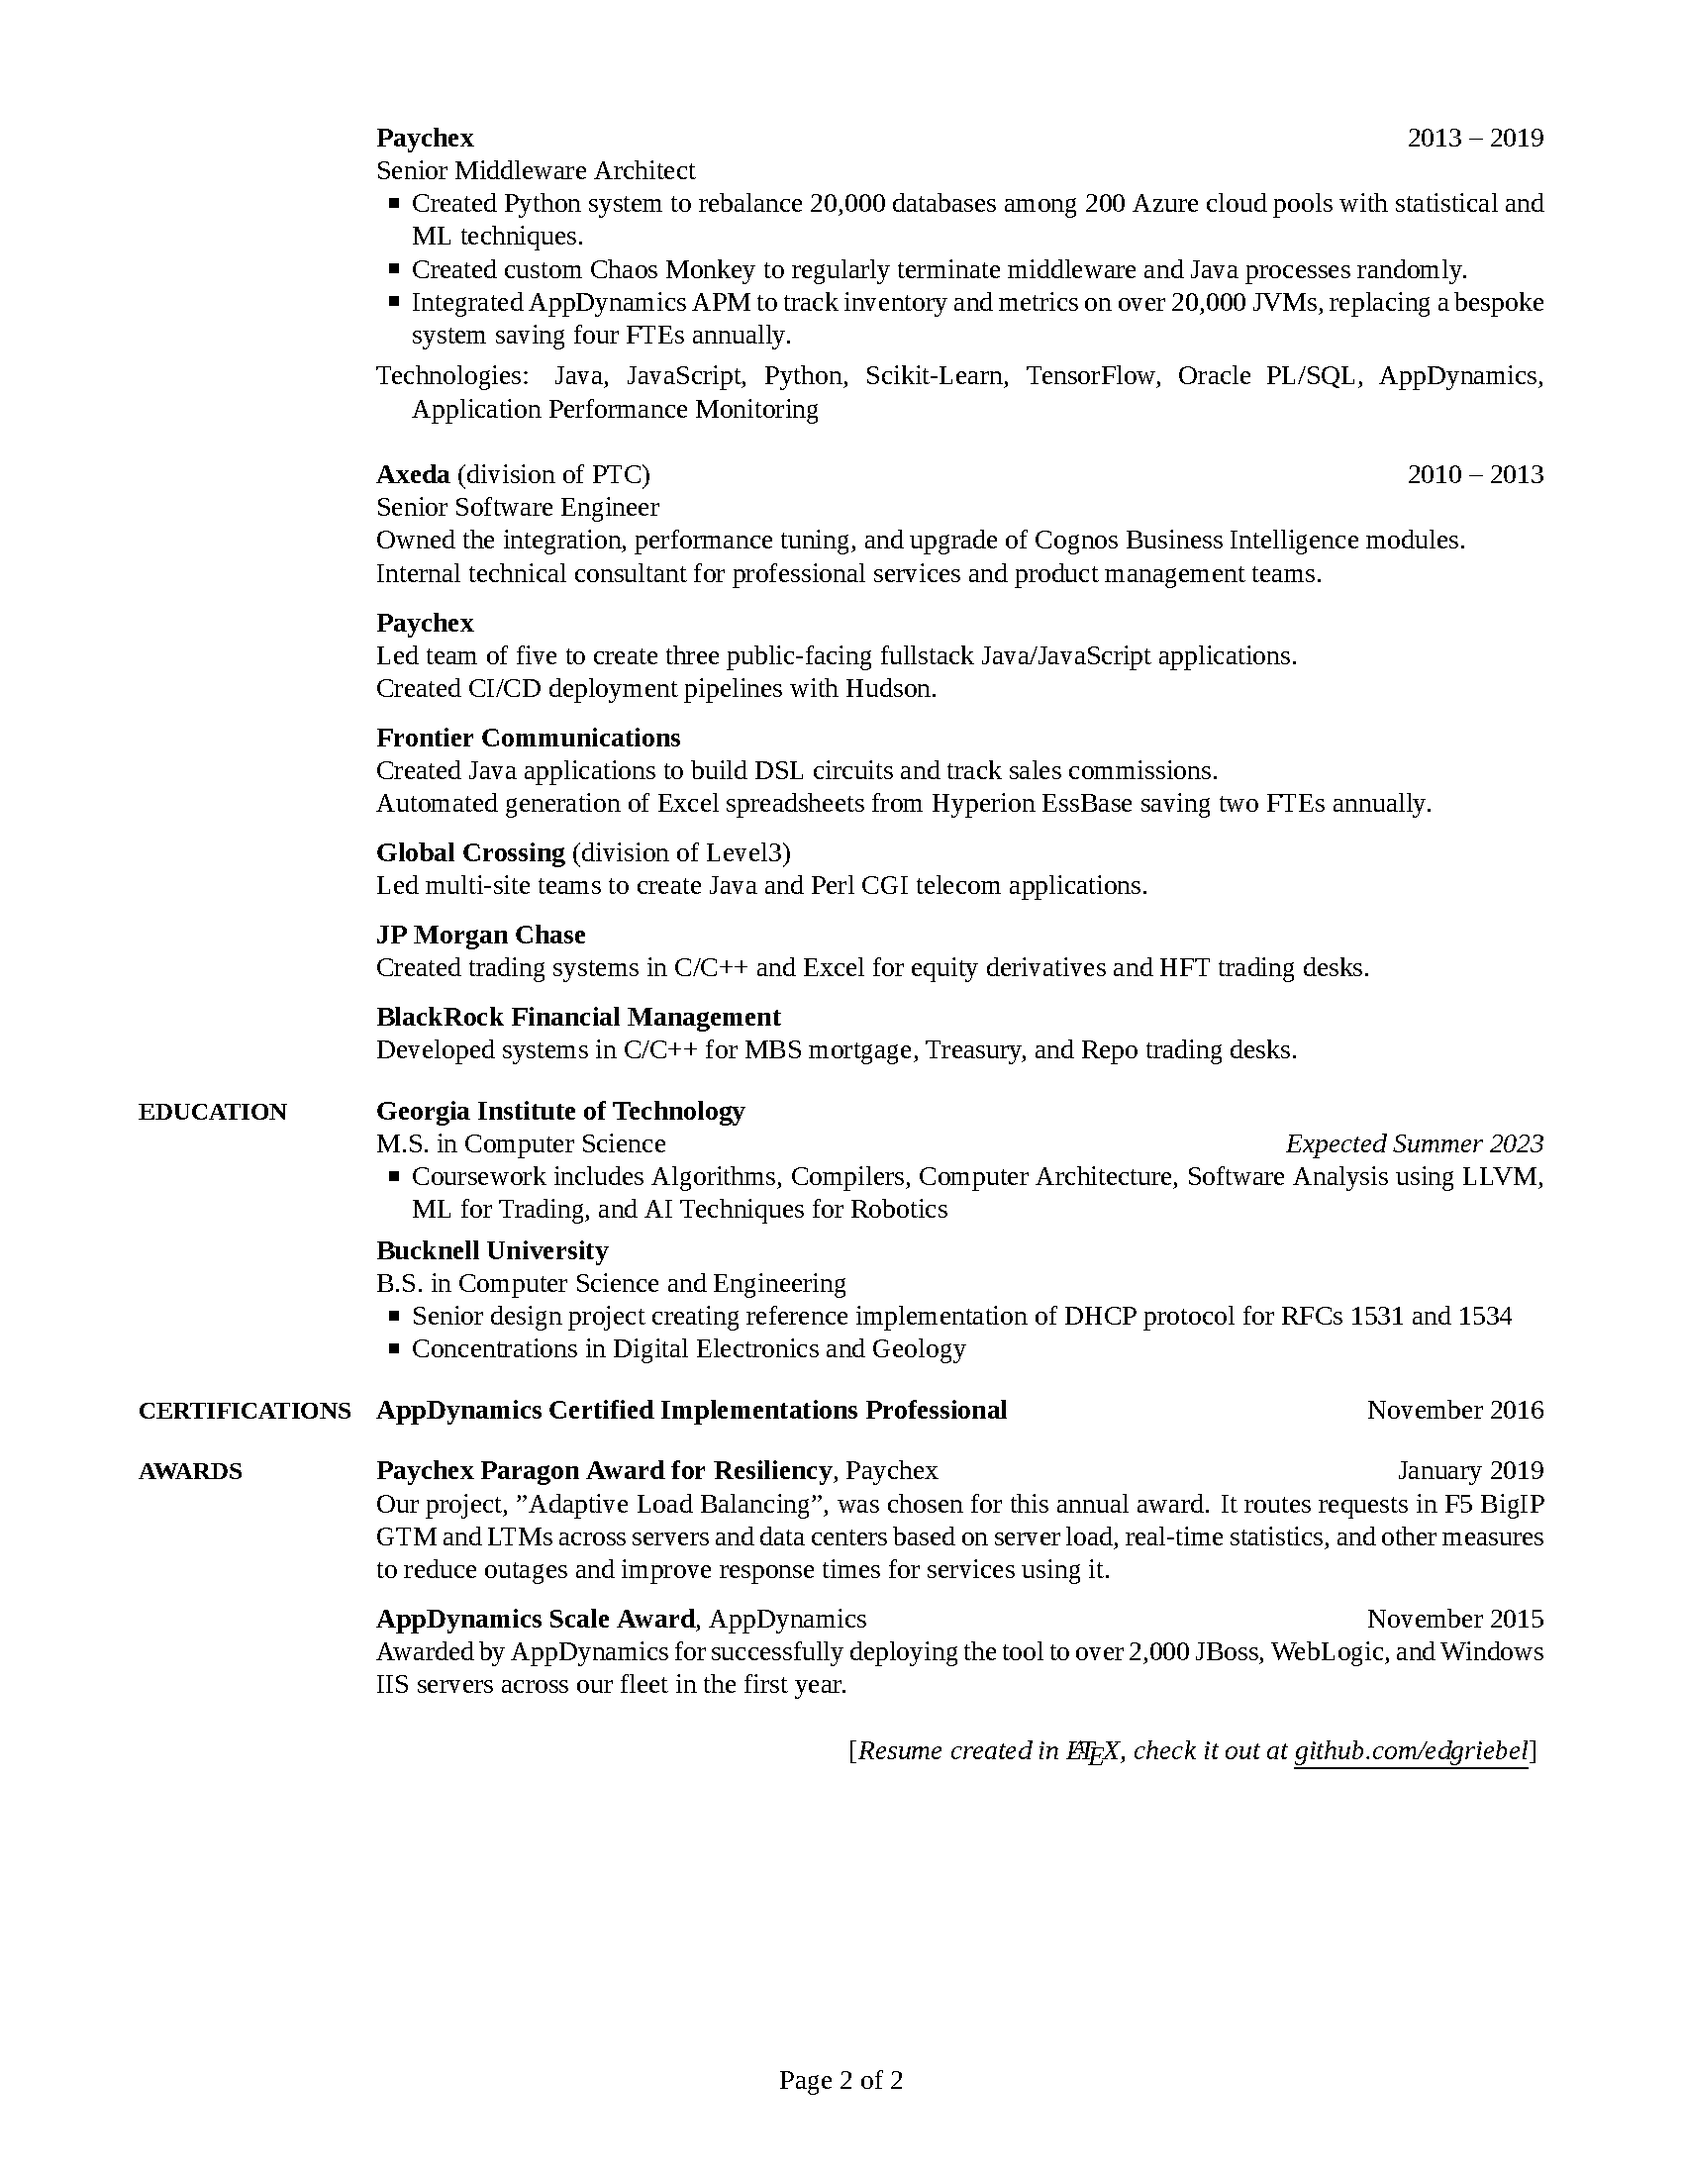
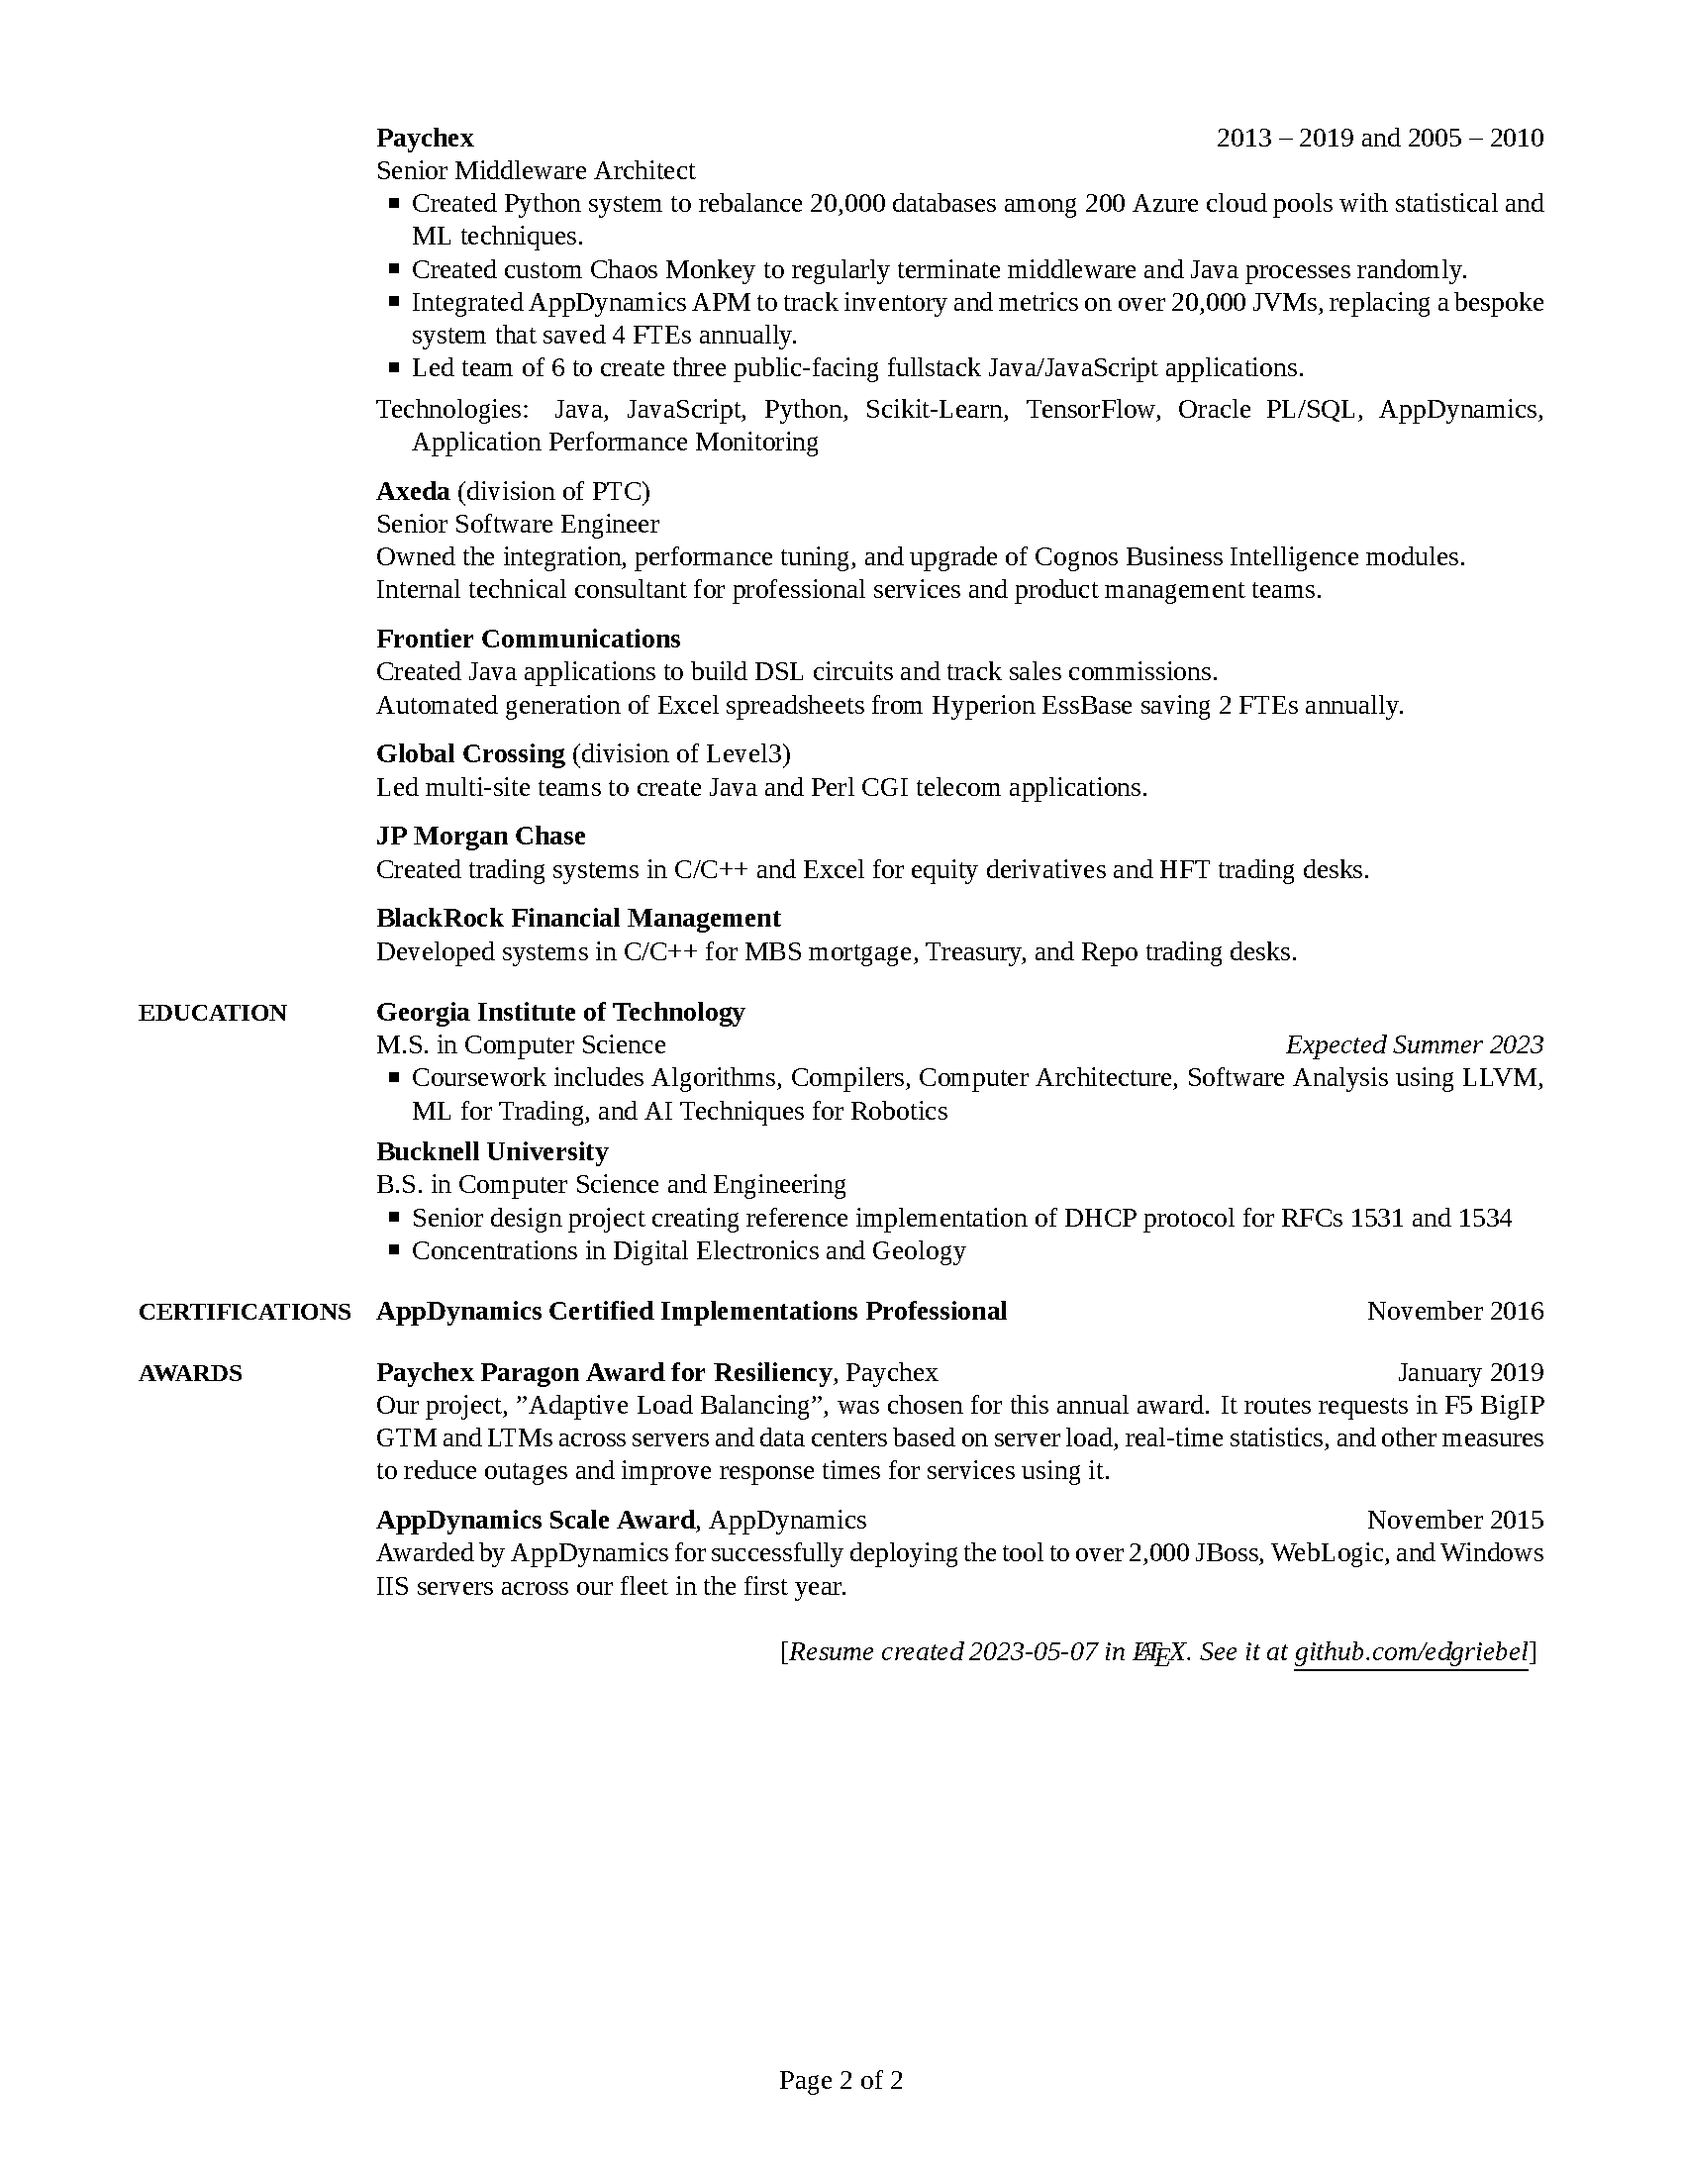
Merged 2 payx jobs

diff --git a/Ed_Griebel_CV.tex b/Ed_Griebel_CV.tex
@@ -24,8 +24,8 @@
 % CV Info (to be customized).
 \newcommand{\CVAuthor}{Edward E Griebel Jr.}
 \newcommand{\CVTitle}{Ed Griebel CV}
-%%  \newcommand{\CVNote}{Resume written in \LaTeX, created on {\today}}
-\newcommand{\CVNote}{Resume created in \LaTeX, check it out at \href{https://github.com/edgriebel/resume-cv}{\underline{github.com/edgriebel}}}
+\newcommand{\CVNote}{Resume created {\today} in \LaTeX. See it at \href{https://github.com/edgriebel/resume-cv}{\underline{github.com/edgriebel}}}
+%% \newcommand{\CVNote}{Resume created in \LaTeX, check it out at \href{https://github.com/edgriebel/resume-cv}{\underline{github.com/edgriebel}}}
 \newcommand{\CVWebpage}{https://www.edgriebel.com/}
 \newcommand{\CVWebpageDisp}{www.edgriebel.com}
 
@@ -146,33 +146,34 @@ Present
 
 %%\Gap
 %%\BulletItem
-Production Engineer
+Production/Software Engineer
 
 \begin{Detail}
 %% Production Engineering was created at Facebook to work with engineering teams and partners to champion the Reliability, Scalability, Performance, and Security posture of production services. PEs are hybrid software and systems engineers; they are the glue holding things together, whether that’s infrastructure and software or teams and processes.
 
-At Meta, a Production Engineer is a hybrid of Software, Site Reliability, and Systems Engineering disciplines 
-to achieve reliability, scalability, performance, and security goals for services with billions of users.
+At Meta, a Production Engineer is a hybrid of Software Engineer, Site Reliability Engineer, and Systems Engineer roles
+who create reliable, scalable, performant, and secure services for billions of users.
 
 \Gap
 
 My team, Ads Serving and Delivery, automates the dynamic allocation of Machine Learning models to compute servers for all ads displayed in Facebook and Instagram.
-My prior team created systems to automate creating thousands of new physical and virtual machines by simply editing files. 
-%% using infrastructure-as-code.
 
 %% A key part of being a senior engineer is responsibility for determining scope, driving o
 
 \BulletItem
 %% Lead project to implement centralized configuration changes to AI models in Facebook ad delivery stack. Effort involved identifying problematic areas and user education while ensuring these changes resulted in zero downtime or other negative impacts to ads serving stack.
-Led project to centralize configuration changes to ML/AI models in Meta's ad delivery stack, allowing users to safely make changes without causing negative impacts.
+Led project to centralize configuration changes to ML/AI models in Meta's ad delivery stack, allowing users to safely make changes without causing unintended problems or outages.
 
+\Gap
+My prior team created systems to automate creating thousands of new physical and virtual machines by simply editing files. 
+%% using infrastructure-as-code.
 \BulletItem
 Created system to automate firmware updates for multiple hardware vendors across 10,000+ physical servers. 
-This system eliminated days or weeks of effort for each team supporting a cluster of servers, as prior process required each cluster owner to either manually update each server or create customized ad-hoc update scripts.
+This system eliminated creating ad-hoc scripts or manually updating servers, saving days or even weeks of effort for each team supporting a cluster of servers.
 
 \BulletItem
 Improved oncall and user experience by creating internal documentation, processes, and applications to detect and perform initial troubleshooting of common errors.
-These changes reduced oncall shift impact by 60\% to under five hours per week.
+These changes reduced oncall shift impact by 60\% to under 5 hours per week.
 %% Necessary changes determined by analyzing common user questions, recurring support issues, and experience during outages. 
 
 %% \BulletItem Mentored junior and senior developers in technical and professional skill development.
@@ -232,7 +233,7 @@ Rochester, New York
 
 \begin{Detail}
 \BulletItem
-Created teaching materials and consulted on industry best practices for new courses in Machine Learning, Artificial Intelligence, and Data Science.
+Created teaching materials and was consulted for new courses in Machine Learning, Artificial Intelligence, and Data Science.
 \end{Detail}
 
 \BigGap
@@ -256,8 +257,7 @@ Tech lead for Credit accounting ledgers and inbound transaction APIs.
 Worked closely with developers, product owners, and operations to create a new service for customers to offer white-label credit cards. 
 \BulletItem
 Established/enhanced processes and procedures for product development and support.
-\BulletItem
-Mentored engineers with designs and general software engineering practices.
+%% \BulletItem Mentored engineers with designs and general software engineering practices.
 
 \Gap
 Technologies: Java, MySQL, Spring Boot, Docker
@@ -281,11 +281,11 @@ Rochester, New York
 
 \begin{Detail}
 \BulletItem
-Determined performance issues impacting product stability/scalability and negotiated with technical managers, product owners, Lead Architect, and CTO for resources, prioritization and resolution.
+Determined and created immediate and 1-year plans to address performance issues impacting product stability and scalability.
+Negotiated with managers, product owners, and CTO for resources and prioritization.
 \BulletItem
 Built consensus around and implemented processes and procedures for primary SaaS product to improve long-term supportability and developer productivity.
-\BulletItem
-Mentored junior developers in industry best practices and product platform.
+%% \BulletItem Mentored junior developers in industry best practices and product platform.
 
 \Gap
 Technologies: Python, Flask, JavaScript, Bootstrap, MySQL, Docker, Elasticsearch
@@ -305,9 +305,9 @@ Technologies: Python, Flask, JavaScript, Bootstrap, MySQL, Docker, Elasticsearch
 \href{http://www.paychex.com}
 {\textbf{Paychex}}
 \hfill
-\DatestampY{2013} -- \DatestampY{2019}
+\DatestampY{2013} -- \DatestampY{2019} and \DatestampY{2005} -- \DatestampY{2010}
 
-Senior Middleware Architect %% Crappy Name!!
+Senior Middleware Architect
 \ifLOCATION
 \hfill
 Rochester, New York
@@ -330,7 +330,10 @@ Created custom Chaos Monkey to regularly terminate middleware and Java processes
 %% in Production and Dev environments.
 
 \BulletItem
-Integrated AppDynamics APM to track inventory and metrics on over 20,000 JVMs, replacing a bespoke system saving four FTEs annually.
+Integrated AppDynamics APM to track inventory and metrics on over 20,000 JVMs, replacing a bespoke system that saved 4 FTEs annually.
+
+\BulletItem
+Led team of 6 to create three public-facing fullstack Java/JavaScript applications.
 
 \Gap
 Technologies: Java, JavaScript, Python, Scikit-Learn, TensorFlow, Oracle PL/SQL, AppDynamics, Application Performance Monitoring
@@ -340,46 +343,11 @@ Technologies: Java, JavaScript, Python, Scikit-Learn, TensorFlow, Oracle PL/SQL,
 
 \BigGap
 
-\iffalse %% ORIGINAL PAYCHEX SECTION
-\Entry
-\href{http://www.paychex.com/}
-{\textbf{Paychex}}
-\ifLOCATION
-\hfill 
-Rochester, New York
-\fi
-
-%%\Gap
-%%\BulletItem
-Middleware Architect
-\hfill
-\DatestampYM{2013}{06} --
-Present
-
-\begin{Detail}
-\BulletItem
-Created a process to rebalance 20,000 databases between 200 compute servers in the cloud. The goal is to maximize density by reducing cost while minimizing overall spikes in usage that affect customers' experience. Using algorithmic, statistical, and machine learning techniques including TensorFlow, Pandas, NumPy, and scikit-learn in Python.
-\BulletItem
-Created an internal IT Inventory system in HTML5/JavaScript/Java/RabbitMQ to provide single source of truth and display relationships between virtual and physical hosts, JVM/CLR runtimes, databases, and middleware infrastructure.
-\BulletItem
-Lead developer on system to gather and present metrics from hosts, JVMs, and middleware components, used to send alerts for problems and provide a single location to view runtime metrics.
-\BulletItem
-Created tools in Python to automate configuration and installation of AppDynamics on thousands of Weblogic servers using Weblogic WLST scripting tool.
-\BulletItem
-Member of cross-functional team for selection, prototyping, and implementation of AppDynamics application monitoring tool. 
-
-\Gap
-Technologies: Java, JavaScript, JQuery-UI, Oracle PL/SQL, Scikit-Learn, TensorFlow, Python, middleware, AppDynamics, Application Performance Monitoring, ClearCase, Ant, Git, JUnit, Vagrant
-\end{Detail}
-\fi
-
-\BigGap
-
 \Entry
 \textbf{Axeda} (division of PTC)
 \hfill 
 %% \DatestampYM{2010}{06} --  \DatestampYM{2013}{06}
-\DatestampY{2010} --  \DatestampY{2013}
+%% \DatestampY{2010} --  \DatestampY{2013}
 
 %%\Gap
 %%\BulletItem
@@ -424,7 +392,7 @@ Rochester, New York
 
 \begin{Detail}
 %% \BulletItem
-Led team of six to create Java/JavaScript front end and webapp for an existing internal fat client, and upgraded two existing web applications to contemporary standards. 
+Led team of 6 to create Java/JavaScript front end and webapp for an existing internal fat client, and upgraded 2 existing web applications to contemporary standards. 
 
 Used Hudson to create a CI/CD pipeline for Dev and QA deployments.
 
@@ -460,7 +428,7 @@ Rochester, New York
 %% \Item
 Created Java applications to build DSL circuits and track sales commissions\comment{; CruiseControl used for Continuous Integration}. 
 
-Automated generation of \comment{20} Excel spreadsheets from Hyperion EssBase saving two FTEs/\$200,000 annually.
+Automated generation of \comment{20} Excel spreadsheets from Hyperion EssBase saving 2 FTEs/\$200,000 annually.
 
 %% \Gap
 %% Technologies: Java, JSP, Struts, Oracle PL/SQL, Continuous Integration, JUnit, Excel VBA, EssBase Data Warehouse, Ant
@@ -567,6 +535,7 @@ Technologies: Sybase, ksh
 %% \BigGap
 %% \textbf{******** SHORT FORM TEST **********}
 
+\iffalse %% merge Payx sections
 \BigGap
 \Entry
 \href{http://www.paychex.com/}
@@ -574,11 +543,12 @@ Technologies: Sybase, ksh
 
 \begin{Detail}
 %% \BulletItem
-	Led team of five to create three public-facing fullstack Java/JavaScript applications.
+	Led team of 5 to create three public-facing fullstack Java/JavaScript applications.
 
 	Created CI/CD deployment pipelines with Hudson.
 	%% Mentored new developers and delivered technical training.
 \end{Detail}
+\fi %% merge Payx sections
 
 \BigGap
 \Entry
@@ -589,7 +559,7 @@ Technologies: Sybase, ksh
 %% \BulletItem
 Created Java applications to build DSL circuits and track sales commissions.
 
-Automated generation of Excel spreadsheets from Hyperion EssBase saving two FTEs annually.
+Automated generation of Excel spreadsheets from Hyperion EssBase saving 2 FTEs annually.
 \end{Detail}
 
 \BigGap
